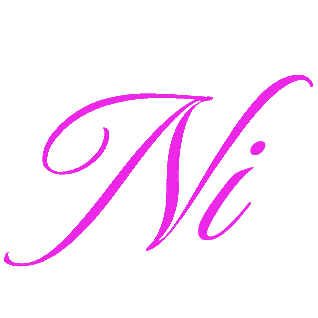
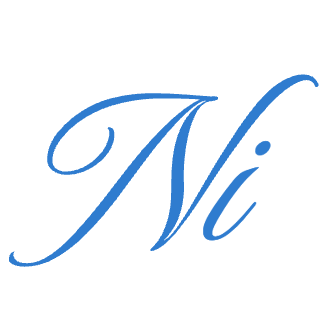
update index.html

Changed region(s): [[0.0, 0.2264, 0.9906, 0.8491]]

diff --git a/w3.css b/w3.css
@@ -370,11 +370,11 @@ hr{border:0;border-top:1px solid #eee;margin:20px 0}
 .w3-2020-magenta-purple
 {color:#fff;background-color:#6C244C}
 
-.w3-2019-text-fruit-dove{color:#ed26e7}
+.w3-2019-text-fruit-dove{color:#3188da}
 .w3-hover-2019-text-fruit-dove:hover{color:#A0DAA9!important}
 
 .w3-2021-text-green-ash{color:#A0DAA9}
-.w3-hover-2021-text-green-ash:hover{color:#ed26e7!important}
+.w3-hover-2021-text-green-ash:hover{color:#3188da!important}
 
 .hoverhighlight-orange:hover{color:#DC793E}
 
